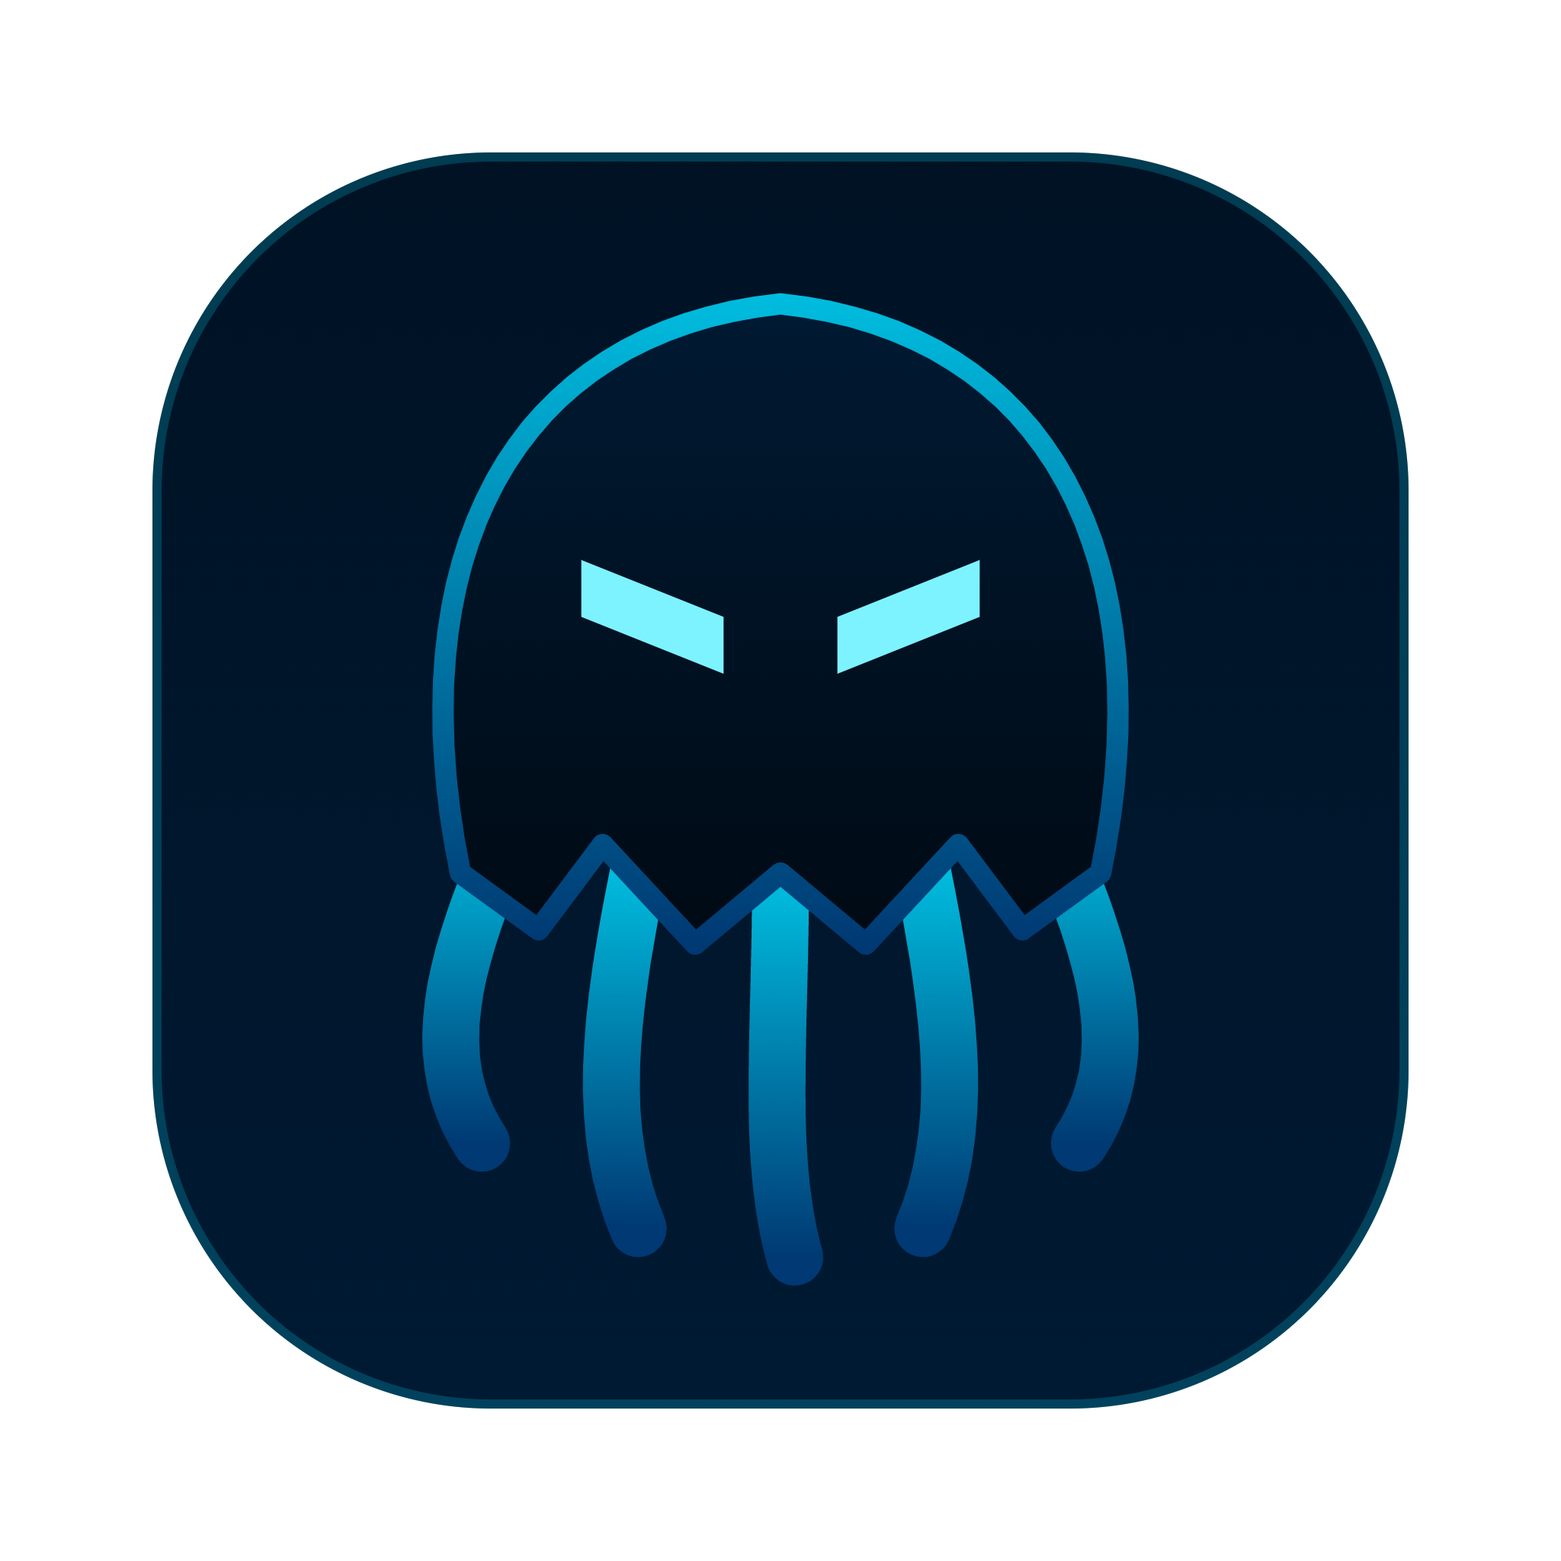
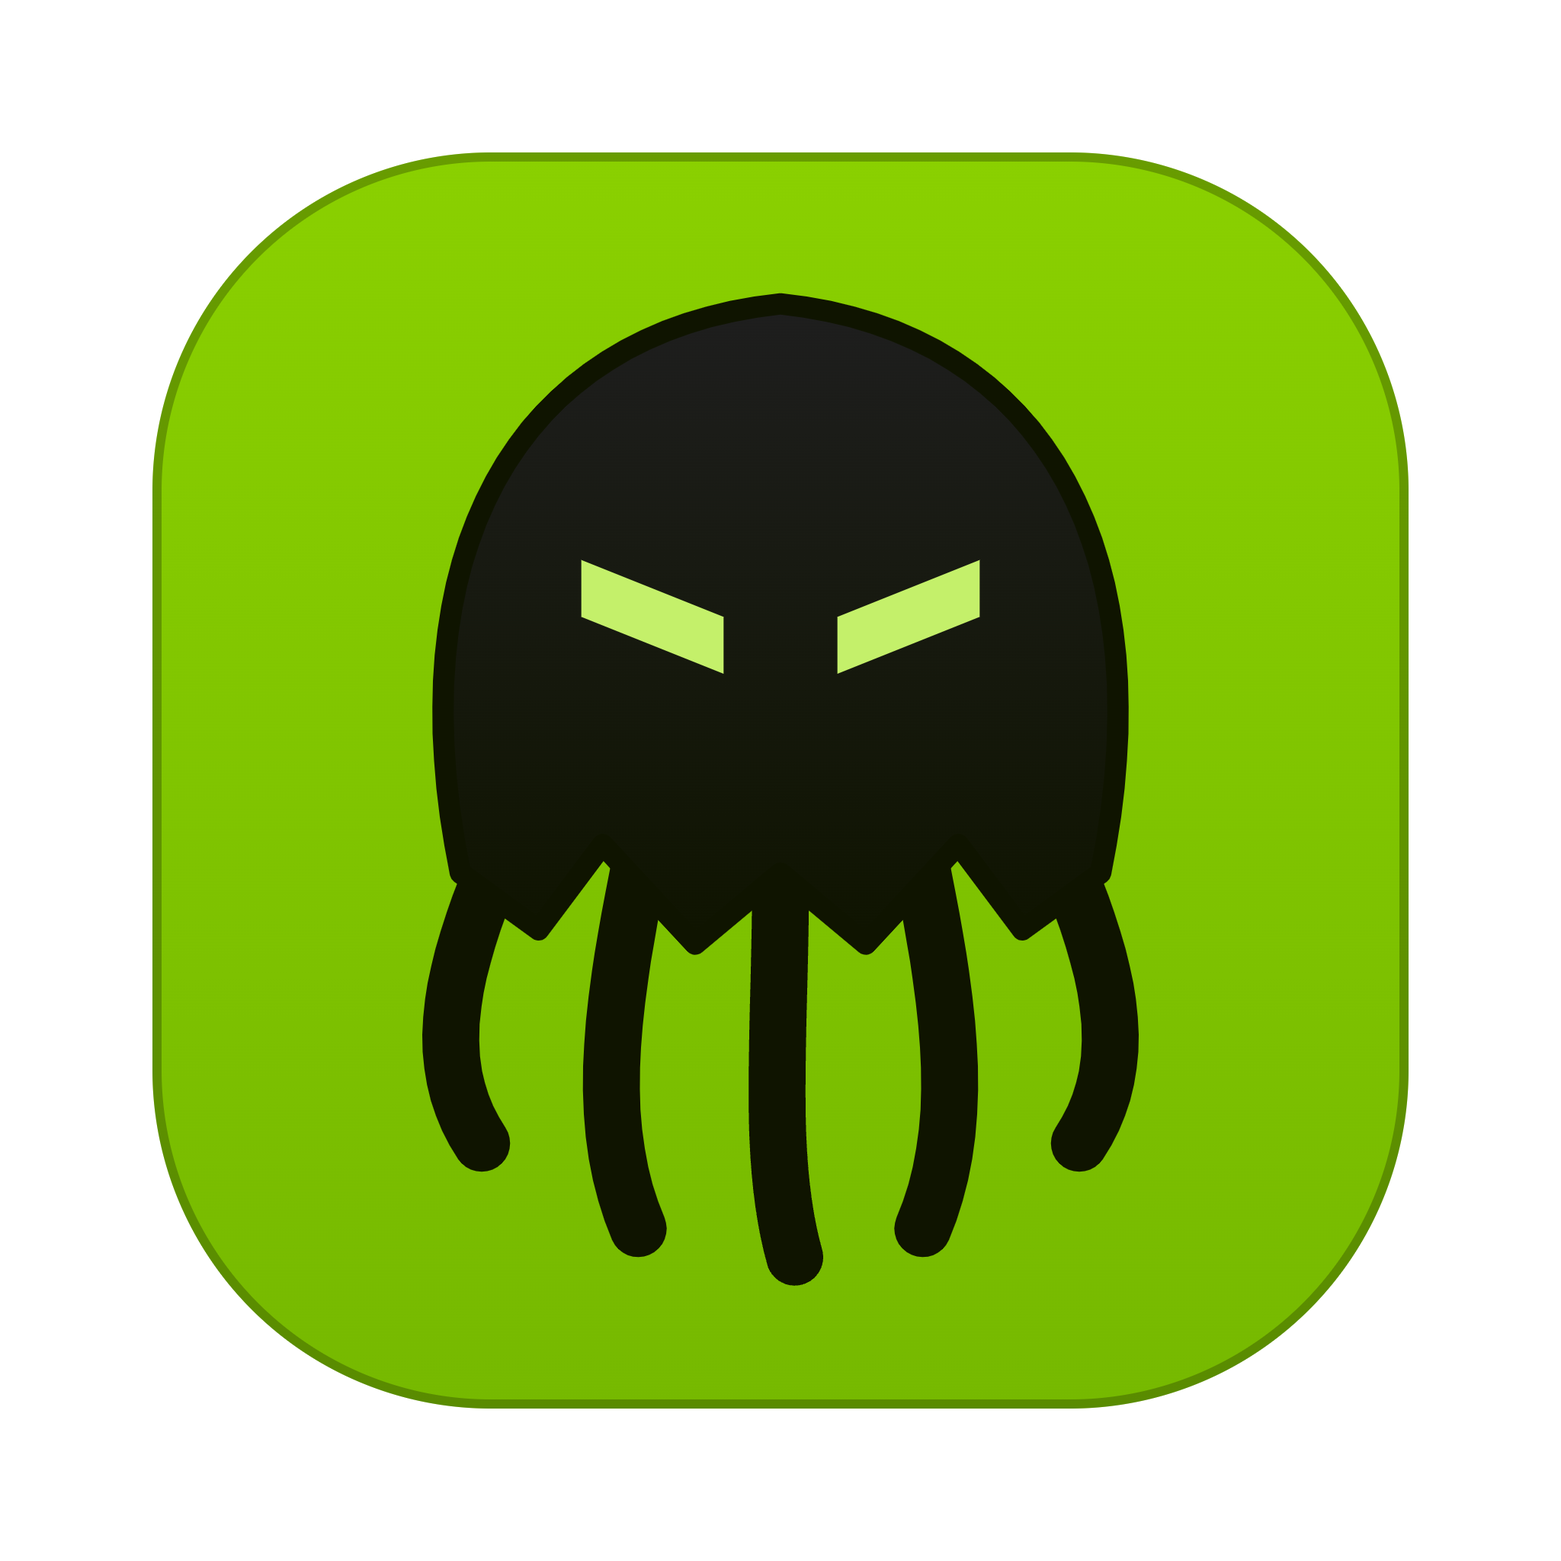
feat(brand): make the octopus follow the theme (B3)
The mark was still wearing the old cyan while the app defaults to Signal. Rather
than swapping one hardcoded palette for another, the mark now reads the theme:
rim --accent2 → --accent/40, body --card → --rail, eyes --accent-num, and the
glow and .octo-tile follow the accent too. Green on Signal, violet on Abyss,
teal on Bioluminescent — the app is never wearing two palettes at once.

CSS variables only resolve through style, never through SVG presentation
attributes, so OctoLogo's gradient stops became inline styles.

Two things can't follow the theme and use Signal's literals, since Signal is the
default: the boot splash paints before the bundle (and the CSP forbids the inline
script that would read the persisted theme), and the app icon is a static asset.
The icon is deliberately inverted versus the in-app mark — green tile, #0F1400
silhouette, accent-num visor — because at 32px in a dock a dark tile with a thin
rim disappears. Rasterized and eyeballed at 2048px.

No cyan left in src/, index.html or resources/.

Adds .claude/skills/plan-doc: the Cursor-style plan format as a project skill, so
it lives in one place instead of two (the app's spec-planner prompt, and whatever
a given session remembers).

diff --git a/index.html b/index.html
@@ -12,7 +12,11 @@
   <body class="bg-ink-950 text-ink-100 antialiased select-none">
     <!-- Boot splash (Octopus Brand Kit) — pure inline HTML/CSS so it animates
          before the bundle loads. App.tsx fades it out once the workspace is
-         restored. Keyframes are a copy of the "Brand" block in styles.css. -->
+         restored. Keyframes are a copy of the "Brand" block in styles.css.
+         Colours are Signal's literals, not CSS variables: this paints before the
+         bundle (and therefore styles.css) exists, and the CSP forbids the inline
+         script that would be needed to read the persisted theme. On a non-default
+         theme that costs one brand-coloured frame before the app takes over. -->
     <style>
       @keyframes octo-bob { 0%, 100% { transform: translateY(0); } 50% { transform: translateY(-5px); } }
       @keyframes octo-tent-sway { 0%, 100% { transform: rotate(-4deg); } 50% { transform: rotate(4deg); } }
@@ -21,21 +25,21 @@
       #boot-splash {
         position: fixed; inset: 0; z-index: 9999;
         display: flex; flex-direction: column; align-items: center; justify-content: center; gap: 22px;
-        background: #060d16; transition: opacity 320ms ease;
+        background: #1a1a1a; transition: opacity 320ms ease;
       }
       #boot-splash.done { opacity: 0; pointer-events: none; }
       #boot-splash .tent { transform-box: fill-box; transform-origin: 50% 0%; animation: octo-tent-sway 2.4s ease-in-out infinite; }
-      #boot-splash .dot { width: 6px; height: 6px; border-radius: 999px; background: #00bbdd; animation: octo-dot-pulse 1.2s infinite; }
+      #boot-splash .dot { width: 6px; height: 6px; border-radius: 0; background: #76b900; animation: octo-dot-pulse 1.2s infinite; }
     </style>
     <div id="boot-splash">
       <div style="animation: octo-bob 2.6s ease-in-out infinite">
-        <svg viewBox="40 24 120 150" width="96" height="120" style="overflow: visible; filter: drop-shadow(0 0 9px rgba(0, 187, 221, 0.4))">
+        <svg viewBox="40 24 120 150" width="96" height="120" style="overflow: visible; filter: drop-shadow(0 0 9px rgba(118, 185, 0, 0.4))">
           <defs>
             <linearGradient id="bsRim" x1="0" y1="0" x2="0" y2="1">
-              <stop offset="0" stop-color="#00BBDD" /><stop offset="1" stop-color="#003973" />
+              <stop offset="0" stop-color="#8AD000" /><stop offset="1" stop-color="#3A5C00" />
             </linearGradient>
             <linearGradient id="bsBody" x1="0" y1="0" x2="0" y2="1">
-              <stop offset="0" stop-color="#001A33" /><stop offset="1" stop-color="#000A14" />
+              <stop offset="0" stop-color="#2A2A2A" /><stop offset="1" stop-color="#1E1E1E" />
             </linearGradient>
           </defs>
           <path class="tent" d="M 62,106 C 54,124 50,138 58,150" fill="none" stroke="url(#bsRim)" stroke-width="8" stroke-linecap="round" />
@@ -45,8 +49,8 @@
           <path class="tent" style="animation-delay: -2s" d="M 138,106 C 146,124 150,138 142,150" fill="none" stroke="url(#bsRim)" stroke-width="8" stroke-linecap="round" />
           <path d="M 55,112 C 46,68 62,36 100,32 C 138,36 154,68 145,112 L 134,120 L 125,108 L 112,122 L 100,112 L 88,122 L 75,108 L 66,120 Z" fill="url(#bsBody)" stroke="url(#bsRim)" stroke-width="3" stroke-linejoin="round" />
           <g style="animation: octo-eye-scan 3.2s linear infinite">
-            <path d="M 72,68 L 92,76 L 92,84 L 72,76 Z" fill="#7DF3FF" />
-            <path d="M 128,68 L 108,76 L 108,84 L 128,76 Z" fill="#7DF3FF" />
+            <path d="M 72,68 L 92,76 L 92,84 L 72,76 Z" fill="#C4F06A" />
+            <path d="M 128,68 L 108,76 L 108,84 L 128,76 Z" fill="#C4F06A" />
           </g>
         </svg>
       </div>

diff --git a/src/components/OctoLogo.tsx b/src/components/OctoLogo.tsx
@@ -26,9 +26,13 @@ const EYE_LEFT = 'M 72,68 L 92,76 L 92,84 L 72,76 Z';
 const EYE_RIGHT = 'M 128,68 L 108,76 L 108,84 L 128,76 Z';
 
 /**
- * Octo brand mark — the octopus from the Octopus Brand Kit. The dark
- * colorway carries the brand gradients (cyan rim on a deep-sea body); the
- * light colorway is flat navy for white/daylight tiles. Keyframes live in
+ * Octo brand mark — the octopus from the Octopus Brand Kit.
+ *
+ * The mark is **theme-driven**: the rim is the active accent, the body is the
+ * surface ladder, the eyes are the accent's brightest step. So it is green on
+ * Signal, violet on Abyss, teal on Bioluminescent — the app is never wearing
+ * two palettes at once. CSS variables only resolve through `style`, not through
+ * SVG presentation attributes, hence the inline `stopColor`s. Keyframes live in
  * styles.css under "Brand".
  */
 export function OctoLogo({ className, glow, animated, variant = 'auto' }: Props) {
@@ -39,8 +43,10 @@ export function OctoLogo({ className, glow, animated, variant = 'auto' }: Props)
   const rimId = `okRim${uid}`;
   const bodyId = `okBody${uid}`;
 
-  const rim = light ? '#003973' : `url(#${rimId})`;
-  const eye = light ? '#00BBDD' : '#7DF3FF';
+  const rim = `url(#${rimId})`;
+  // Dark: the brightest accent step reads as a lit visor. Light: the ink that
+  // the palette allows on an accent fill, i.e. maximum contrast on the body.
+  const eye = light ? 'rgb(var(--accent-fg))' : 'rgb(var(--accent-num))';
 
   return (
     <div
@@ -59,18 +65,25 @@ export function OctoLogo({ className, glow, animated, variant = 'auto' }: Props)
             : undefined),
         }}
       >
-        {!light && (
-          <defs>
-            <linearGradient id={rimId} x1="0" y1="0" x2="0" y2="1">
-              <stop offset="0" stopColor="#00BBDD" />
-              <stop offset="1" stopColor="#003973" />
-            </linearGradient>
-            <linearGradient id={bodyId} x1="0" y1="0" x2="0" y2="1">
-              <stop offset="0" stopColor="#001A33" />
-              <stop offset="1" stopColor="#000A14" />
-            </linearGradient>
-          </defs>
-        )}
+        <defs>
+          <linearGradient id={rimId} x1="0" y1="0" x2="0" y2="1">
+            <stop offset="0" style={{ stopColor: 'rgb(var(--accent2))' }} />
+            <stop
+              offset="1"
+              style={{ stopColor: light ? 'rgb(var(--accent) / 0.75)' : 'rgb(var(--accent) / 0.4)' }}
+            />
+          </linearGradient>
+          <linearGradient id={bodyId} x1="0" y1="0" x2="0" y2="1">
+            <stop
+              offset="0"
+              style={{ stopColor: light ? 'rgb(var(--accent))' : 'rgb(var(--card))' }}
+            />
+            <stop
+              offset="1"
+              style={{ stopColor: light ? 'rgb(var(--accent))' : 'rgb(var(--rail))' }}
+            />
+          </linearGradient>
+        </defs>
 
         {TENTACLES.map((d, i) => (
           <path
@@ -94,7 +107,7 @@ export function OctoLogo({ className, glow, animated, variant = 'auto' }: Props)
 
         <path
           d={BODY}
-          fill={light ? '#003973' : `url(#${bodyId})`}
+          fill={`url(#${bodyId})`}
           stroke={light ? undefined : rim}
           strokeWidth={light ? undefined : 3}
           strokeLinejoin="round"

diff --git a/src/components/OctoLoader.tsx b/src/components/OctoLoader.tsx
@@ -40,7 +40,7 @@ export function OctoLoader({
       <OctoLogo animated glow variant="dark" className={MARK_SIZE[size]} />
 
       {showCode && (
-        <div className="w-[220px] h-[96px] rounded-[10px] overflow-hidden relative bg-[#000A14] ring-1 ring-[#00BBDD]/[0.14]">
+        <div className="w-[220px] h-[96px] rounded-lg overflow-hidden relative bg-rail ring-1 ring-accent/[0.18]">
           <div
             className="flex flex-col gap-[9px] px-3.5 py-3"
             style={{ animation: 'octo-code-scroll 6s linear infinite' }}
@@ -57,7 +57,8 @@ export function OctoLoader({
           <div
             className="absolute inset-0 pointer-events-none"
             style={{
-              background: 'linear-gradient(180deg,#000A14,transparent 25%,transparent 75%,#000A14)',
+              background:
+                'linear-gradient(180deg,rgb(var(--rail)),transparent 25%,transparent 75%,rgb(var(--rail)))',
             }}
           />
         </div>
@@ -67,7 +68,7 @@ export function OctoLoader({
         {[0, 1, 2].map((i) => (
           <span
             key={i}
-            className="w-1.5 h-1.5 rounded-full bg-[#00BBDD]"
+            className="w-1.5 h-1.5 rounded-full bg-accent"
             style={{ animation: `octo-dot-pulse 1.2s ${i * 0.2}s infinite` }}
           />
         ))}

diff --git a/src/styles.css b/src/styles.css
@@ -548,19 +548,23 @@ body {
   40% { opacity: 1; }
 }
 @keyframes octo-glow-pulse {
-  0%, 100% { filter: drop-shadow(0 0 3px rgba(0, 187, 221, 0.5)); }
-  50% { filter: drop-shadow(0 0 9px rgba(0, 187, 221, 0.75)); }
+  0%, 100% { filter: drop-shadow(0 0 3px rgb(var(--accent) / 0.5)); }
+  50% { filter: drop-shadow(0 0 9px rgb(var(--accent) / 0.75)); }
 }
 
 /* App-tile behind the mark (nav rail, welcome hero). Daylight swaps to the
    kit's white tile; OctoLogo's 'auto' variant swaps the mark to match. */
 .octo-tile {
-  background: linear-gradient(180deg, #001224, #001a33);
+  background: linear-gradient(180deg, rgb(var(--card)), rgb(var(--rail)));
   box-shadow:
-    0 0 0 1px rgba(0, 187, 221, 0.2),
-    0 2px 12px rgba(0, 187, 221, 0.25);
+    0 0 0 1px rgb(var(--accent) / 0.25),
+    0 2px 12px rgb(var(--accent) / 0.2);
+}
+[data-theme='signal'] .octo-tile {
+  /* Signal is flat: the hairline carries the tile, not a shadow. */
+  box-shadow: 0 0 0 1px rgb(var(--accent) / 0.5);
 }
 [data-theme='daylight'] .octo-tile {
-  background: #ffffff;
-  box-shadow: 0 0 0 1px #e8edf2;
+  background: rgb(var(--panel));
+  box-shadow: 0 0 0 1px rgb(var(--line));
 }

diff --git a/docs/refactor-metodologia-y-rebranding.md b/docs/refactor-metodologia-y-rebranding.md
@@ -9,7 +9,7 @@ tags: [architecture, refactor, design-system, migration]
 
 # Refactor — **Definir · Plan · Construir** + rebranding *Signal*
 
-![status](https://img.shields.io/badge/metodolog%C3%ADa-completa-brightgreen) ![fases](https://img.shields.io/badge/fases-7%2F7%20hechas-brightgreen) ![branding](https://img.shields.io/badge/branding-B3--B4%20pendientes-yellow) ![riesgo](https://img.shields.io/badge/riesgo-bajo--medio-lightgrey)
+![status](https://img.shields.io/badge/metodolog%C3%ADa-completa-brightgreen) ![fases](https://img.shields.io/badge/fases-7%2F7%20hechas-brightgreen) ![branding](https://img.shields.io/badge/branding-B4%20pendiente-yellow) ![riesgo](https://img.shields.io/badge/riesgo-bajo--medio-lightgrey)
 
 > **TL;DR** — Octo pide hoy **4 aprobaciones humanas** antes de la primera línea de
 > código. Este plan las baja a **2**, funde `design.md` + `tasks.md` en un único
@@ -47,7 +47,7 @@ fuente de verdad del progreso**.
 - [x] **B0** · tokens, tema, fuentes, radios *(= F0)*
 - [x] **B1** · sombras a token + `rounded-full` + radios hardcodeados de `styles.css`
 - [x] **B2** · semántica de acentos — `accent` → `agent` donde signifique agente/espera, y fuera los colores off-palette
-- [ ] **B3** · identidad — logo, loader, splash, ícono *(desbloqueado: D1 resuelta)*
+- [x] **B3** · identidad — logo, loader, splash, ícono
 - [ ] **B4** · densidad y ritmo — padding 26/14–15px, gap 16px, 120ms
 
 ### Decisiones pendientes
@@ -568,7 +568,7 @@ Abyss, `0` en Signal. `rounded-full` queda **fuera a propósito** (dots, avatare
 | **B0** | *(= F0)* tokens, tema, fuentes, radios | bajo | ✅ |
 | **B1** | ✅ **hecha.** `boxShadow` → `var(--shadow-*)`: en Signal `panel` y `card` son `none`, y `glow` pasa a ser la hairline de acento al 50% que la paleta sí admite. **`rounded-full` tokenizado** (`--radius-full`) en vez de barrido a mano: 9999px en los temas legacy, 0 en Signal, y los ~40 puntos de estado, badges, píldoras y avatares quedan cuadrados de una — el marcador de estado de la paleta *es* un cuadrado de 6px, así que es el sistema, no una concesión. Sin radios hardcodeados en `styles.css` | bajo | ✅ |
 | **B2** | ✅ **hecha.** Violeta para la **identidad del agente** (chip de `LibBadge`, nodos de `AgentGraphView`, banner y marcador de tool-call de `ChatPanel`, `TaskInspector`) y para lo que **espera una decisión tuya** (Open Questions, *Awaiting approval* en Home). Verde intacto en primarios, progreso y "corriendo". **Y el hallazgo grande:** había **50 clases de color hardcodeadas** (`amber-500`, `emerald-400`, `sky-300`, `purple-300`) que nunca respondieron al tema — un tercer y cuarto acento fuera de sistema. Remapeadas a `warn` / `good` / `dim` / `agent`; en `src/` no queda ninguna | **medio** — es criterio, no mecánica | ✅ |
-| **B3** | identidad: `OctoLogo`, `OctoLoader`, splash de `index.html` (hoy cian `#00BBDD` sobre `#060d16`), `scripts/render-icon.mjs`, ícono de app. **Desbloqueado** por D1 — y con el nombre nuevo, el pulpo es el homónimo literal | medio | ⬜ |
+| **B3** | ✅ **hecha.** La marca pasó a ser **theme-driven** en vez de cambiarle el cian por verde: rim `--accent2 → --accent/40`, cuerpo `--card → --rail`, ojos `--accent-num`, más el glow y `.octo-tile`. Verde en Signal, violeta en Abyss, turquesa en Bioluminescent — la app nunca lleva dos paletas puestas. Splash e ícono no pueden seguir al tema (uno pinta antes del bundle, el otro es un asset estático) y usan los literales de Signal; el ícono va **invertido a propósito** — tile verde y silueta `#0F1400` — porque a 32px en el dock un tile oscuro con rim fino desaparece. En `src/`, `index.html` y `resources/` no queda un solo cian | medio | ✅ |
 | **B4** | densidad y ritmo: tarjeta activa 26px, panel 14–15px, gap 16px, transiciones 120ms | bajo | ⬜ |
 
 > **Nota de B2.** Un chequeo que hice y descartó una preocupación previa: el verde

diff --git a/.claude/skills/plan-doc/SKILL.md b/.claude/skills/plan-doc/SKILL.md
@@ -1,0 +1,39 @@
+---
+name: plan-doc
+description: Write an implementation or refactor plan that people actually read — a mermaid diagram of the approach, a file table with real path:line references, and stable task IDs. Use whenever you are asked for a plan, a refactor plan, a phased migration, an RFC, or a technical design document.
+---
+
+# Plan documents
+
+A plan nobody reads is a plan that doesn't work. Optimise for a reviewer who will
+scan it in 30 seconds and then read the part they own.
+
+## Shape
+
+1. **Header** — objective in one line, appetite (S/M/L), risk. A TL;DR table of
+   *before → after* when the plan changes an existing system.
+2. **Master checklist** near the top when the plan has phases: one flat list of
+   every phase with `- [ ]`, so progress is visible without scrolling. This list
+   is the single source of truth for status — tick it as work lands.
+3. **A mermaid diagram of the approach**, before the prose. Pick the type
+   deliberately: `flowchart` for the shape of the change, `sequenceDiagram` for
+   interactions over time, `erDiagram` when the data model moves. Quote every
+   node label. Follow the `mermaid-diagrams` skill if it is installed.
+4. **Affected files** as a table `| File | Change |`. Ground every path with
+   Grep/Glob and cite `path:line`. Never invent a path.
+5. **Per phase**: objective, the file table, `- [ ]` tasks with stable ids
+   (`T1`, `T2`), an **acceptance** line, and a **rollback** line.
+6. **Risks & open decisions** last, as a table. Mark decisions that block a
+   phase, and say which one.
+
+## Rules
+
+- **No identifier zoo.** `T1` is the only prefix. `REQ-001`, `SEC-002`,
+  `CON-003` make a document machine-parseable and human-hostile.
+- **Summary above detail**, always. Tables over prose. Emoji status (✅ ⬜) in
+  checklists — they scan faster than words.
+- **State what you verified and what you didn't.** "typecheck and build green;
+  the migration is untested against a real database" is worth more than a claim.
+- **Record deviations.** When execution departs from the plan, edit the plan and
+  say why in one line. A stale plan is worse than no plan.
+- Keep prose short. If a paragraph explains a table, delete the paragraph.

diff --git a/docs/renderer.md b/docs/renderer.md
@@ -235,9 +235,24 @@ needs eyes on the running app.
 ## Brand (Octopus Brand Kit)
 
 The brand mark is the octopus from the **Octopus Brand Kit** (claude.ai/design project
-"Octopus logo animation"). It carries fixed brand colors independent of the theme palettes:
-cyan rim gradient `#00BBDD→#003973`, deep-sea body `#001A33→#000A14`, visor eyes `#7DF3FF`;
-the light colorway (flat `#003973`, `#00BBDD` eyes) is auto-selected on the Daylight theme.
+"Octopus logo animation") — the app's literal namesake since the Kraken → Octo rename.
+
+**The mark is theme-driven**, not a fixed colourway: the rim is `--accent2 → --accent/40`, the
+body is `--card → --rail`, the eyes are `--accent-num`, and the glow and `.octo-tile` read the
+accent too. So it is green on Signal, violet on Abyss, teal on Bioluminescent — the app is never
+wearing two palettes at once. CSS variables only resolve through `style`, never through SVG
+presentation attributes, which is why `OctoLogo`'s gradient stops are inline styles. The light
+colourway (flat `--accent` body, `--accent-fg` eyes) is auto-selected on Daylight.
+
+Two places can't follow the theme, and use Signal's literals because Signal is the default:
+
+- **The boot splash** in `index.html` paints before the bundle — and therefore before
+  `styles.css` — exists, and the CSP forbids the inline script that would read the persisted
+  theme. On a non-default theme that costs one brand-coloured frame.
+- **The app icon** (`resources/icon.svg` → `npm run icon` → `icon.png`) is a static asset. It is
+  deliberately **inverted** versus the in-app mark: at 32px in a dock a dark tile with a thin rim
+  disappears, so it uses the palette's primary-button treatment — brand green as fill, `#0F1400`
+  as the only ink allowed on it, `--accent-num` visor.
 
 - **`OctoLogo`** (`components/OctoLogo.tsx`) — the mark. Props: `animated` (bobbing body +
   staggered tentacle sway + eye scan), `glow` (pulsing cyan drop-shadow, dark colorway only),
